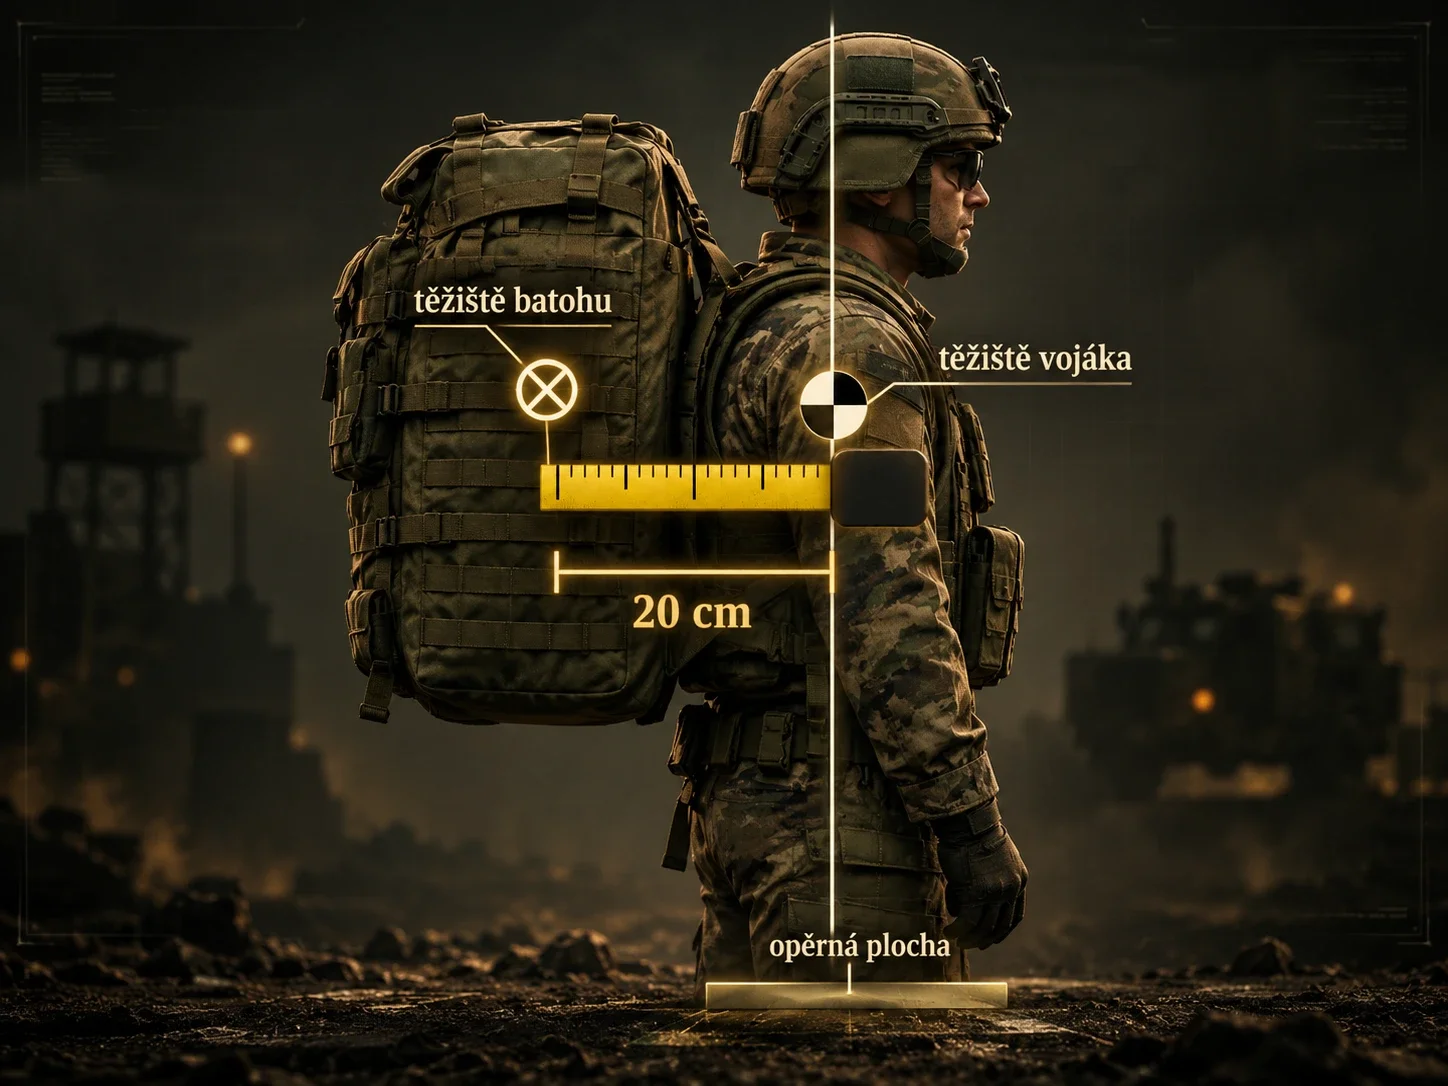
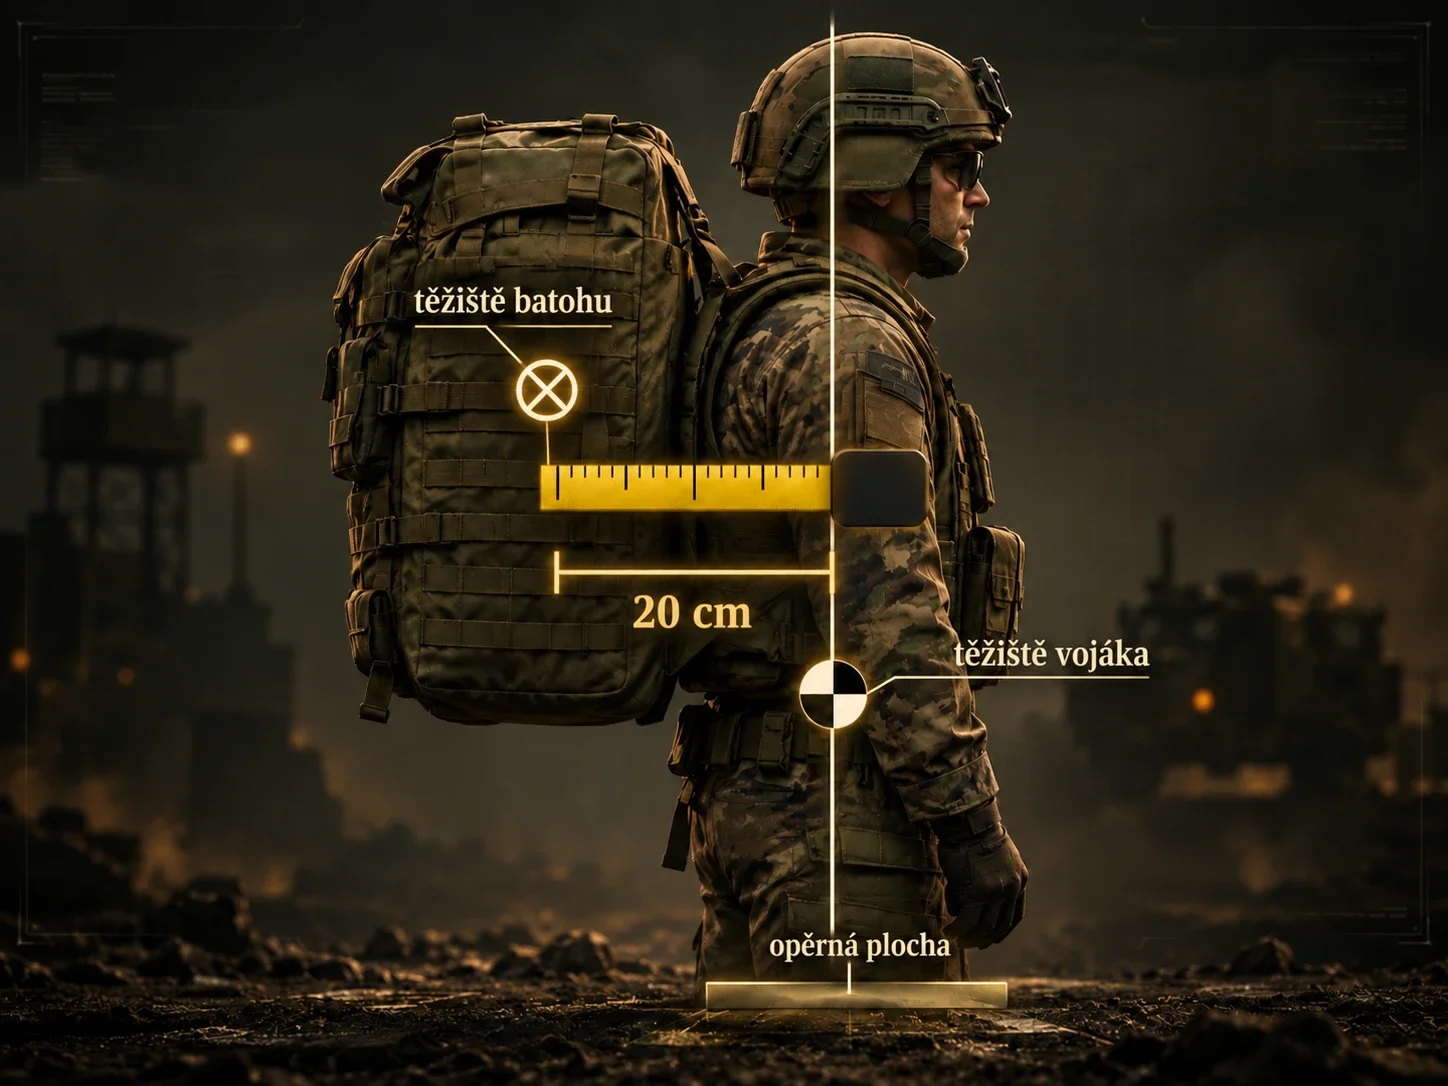
Výstrojní sklad: detail měření se značkou těžiště vojáka v pánvi
Claude-Session: https://claude.ai/code/session_01Kru6w8vJeJ3xfiYsSJ2QB7

diff --git a/docs/zadani-obrazku-sklad.md b/docs/zadani-obrazku-sklad.md
@@ -11,8 +11,6 @@ Platí stejná pravidla jako u kabinetu a herny.
   - Vysunutý šuplík pultu je poskládaný z čela šuplíku na vašem obrázku pultu.
 - Nepovinné: pult s vysunutým šuplíkem a regály s otevřenou skříňkou ve stejném záběru –
   vyměním je za poskládané vrstvy.
-- Detail měření: značka těžiště vojáka je na obrázku v hrudníku; ve skutečnosti (a v příručce)
-  leží těžiště stojícího člověka v pánvi. Na figuríně v místnosti je značka správně.
 - Nepoužité: kovová krabice se šuplíkem a otevřená krabice s papírem a tyčkou.
 
 ## Styl
